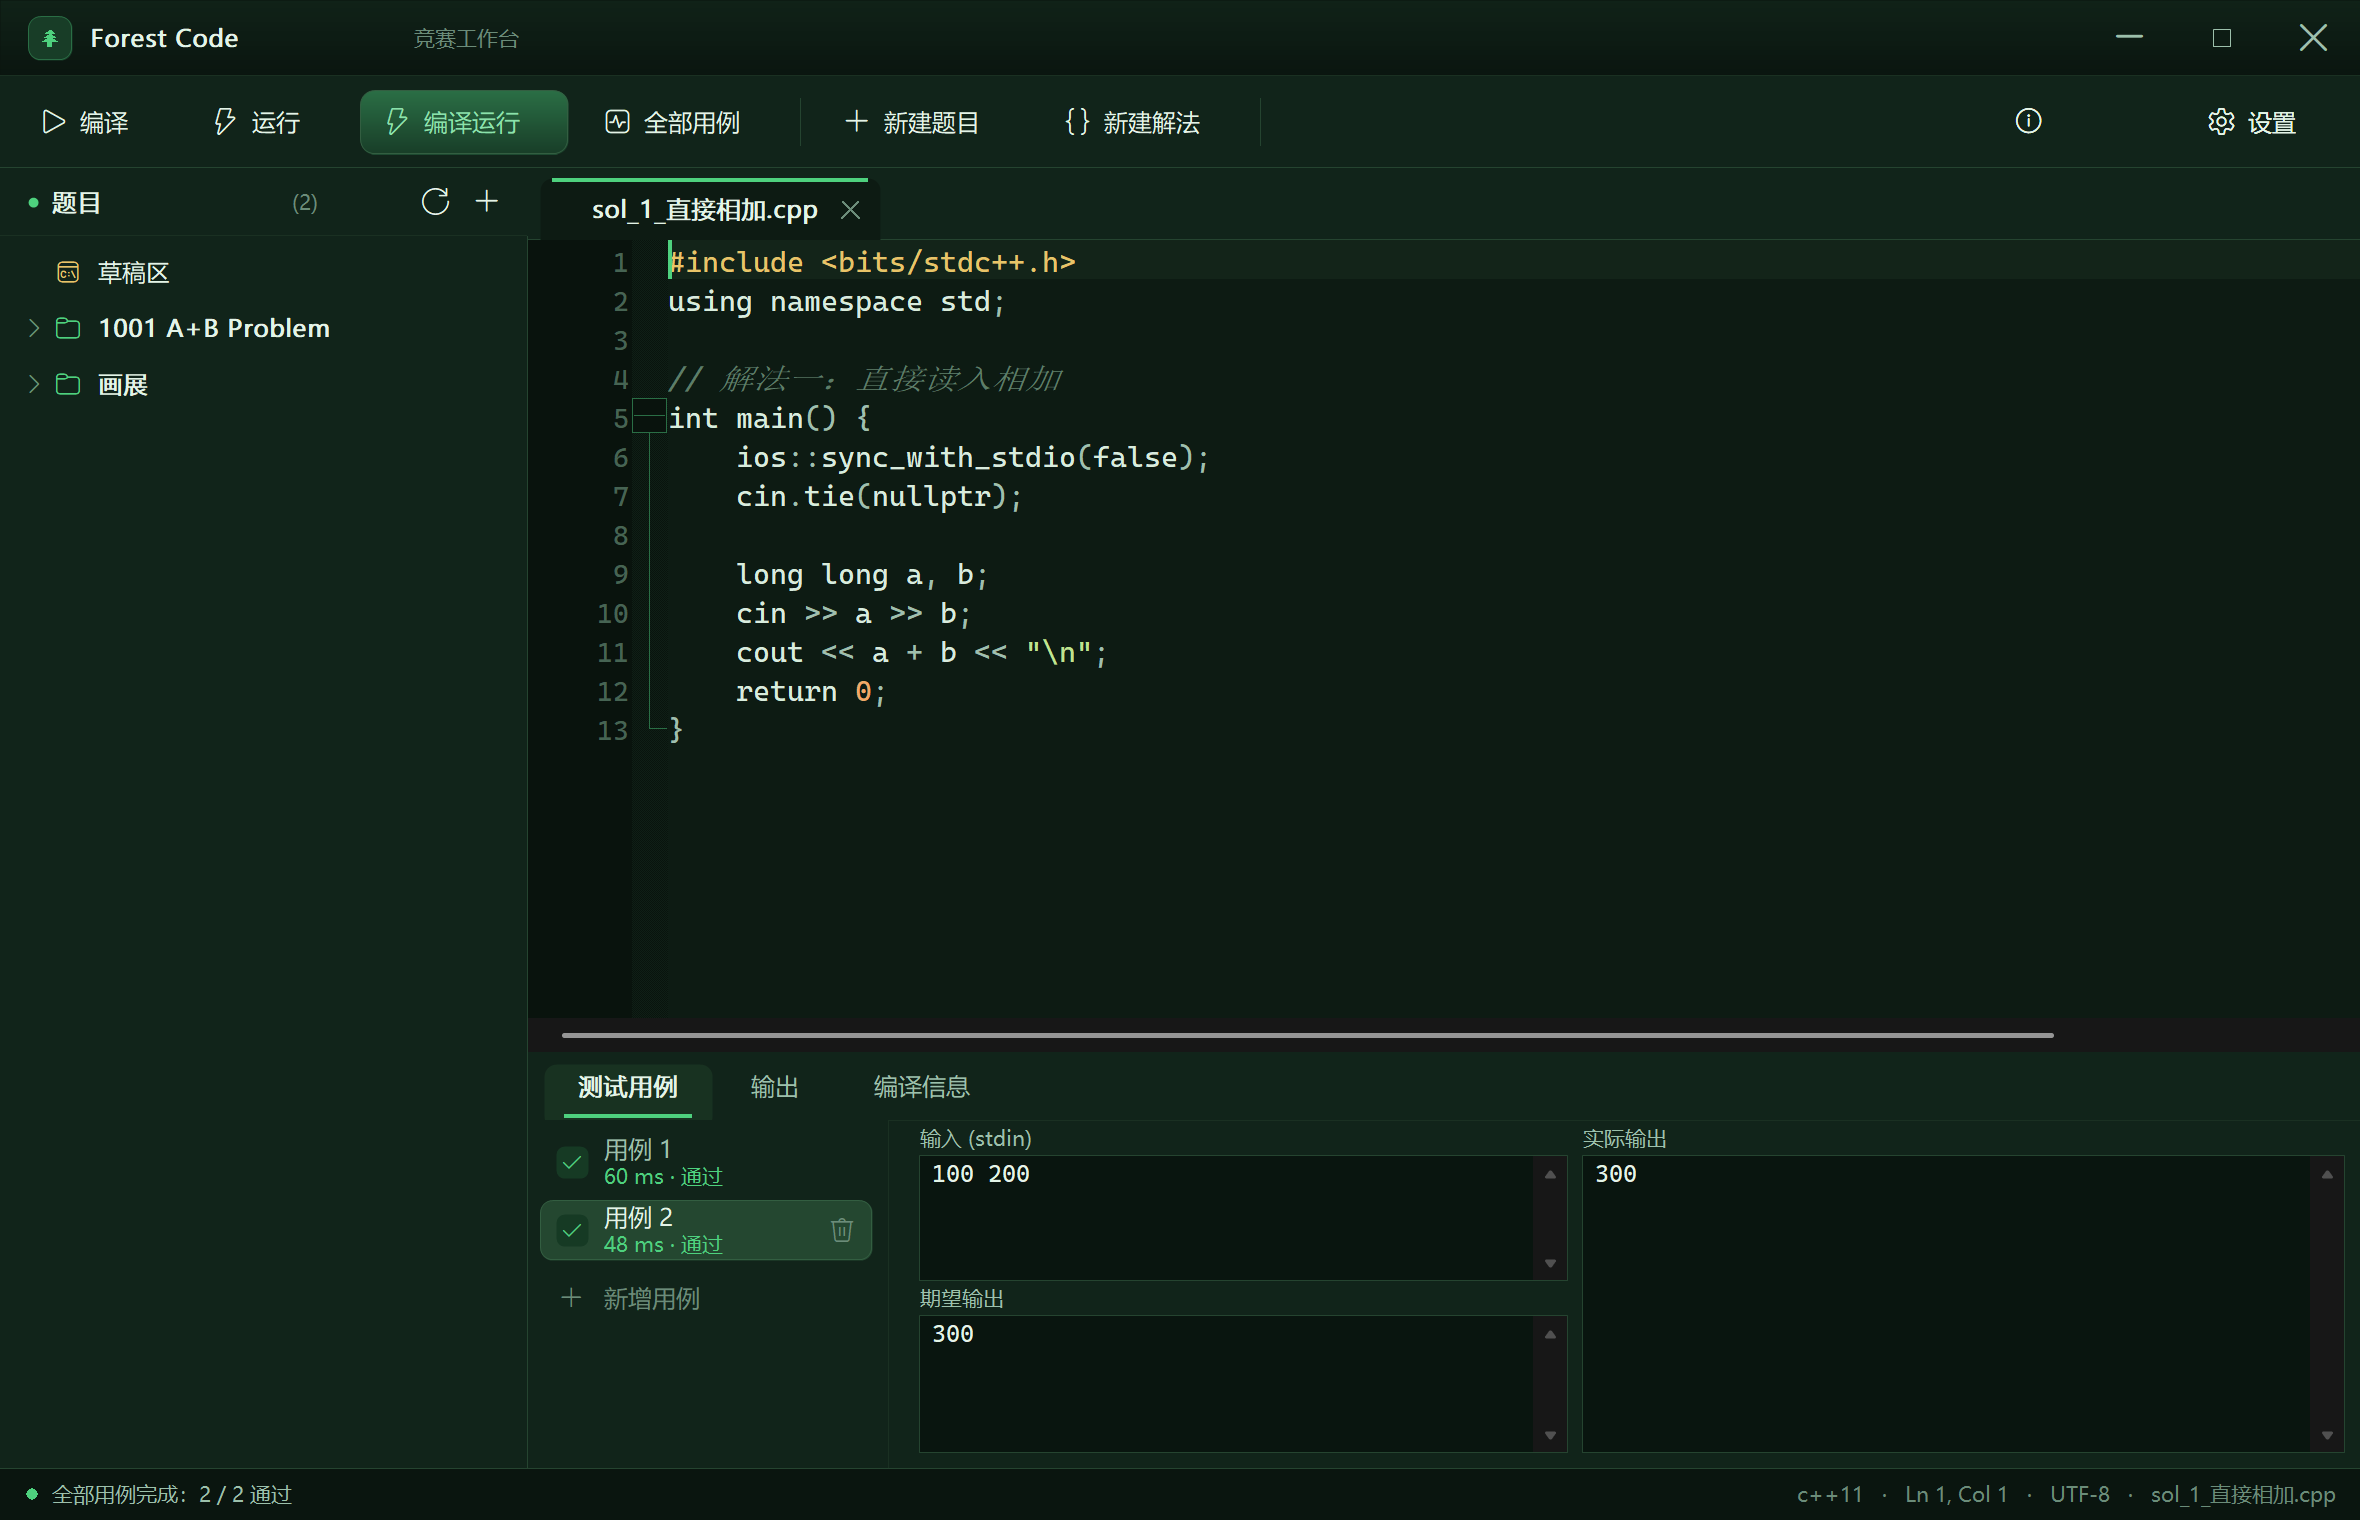
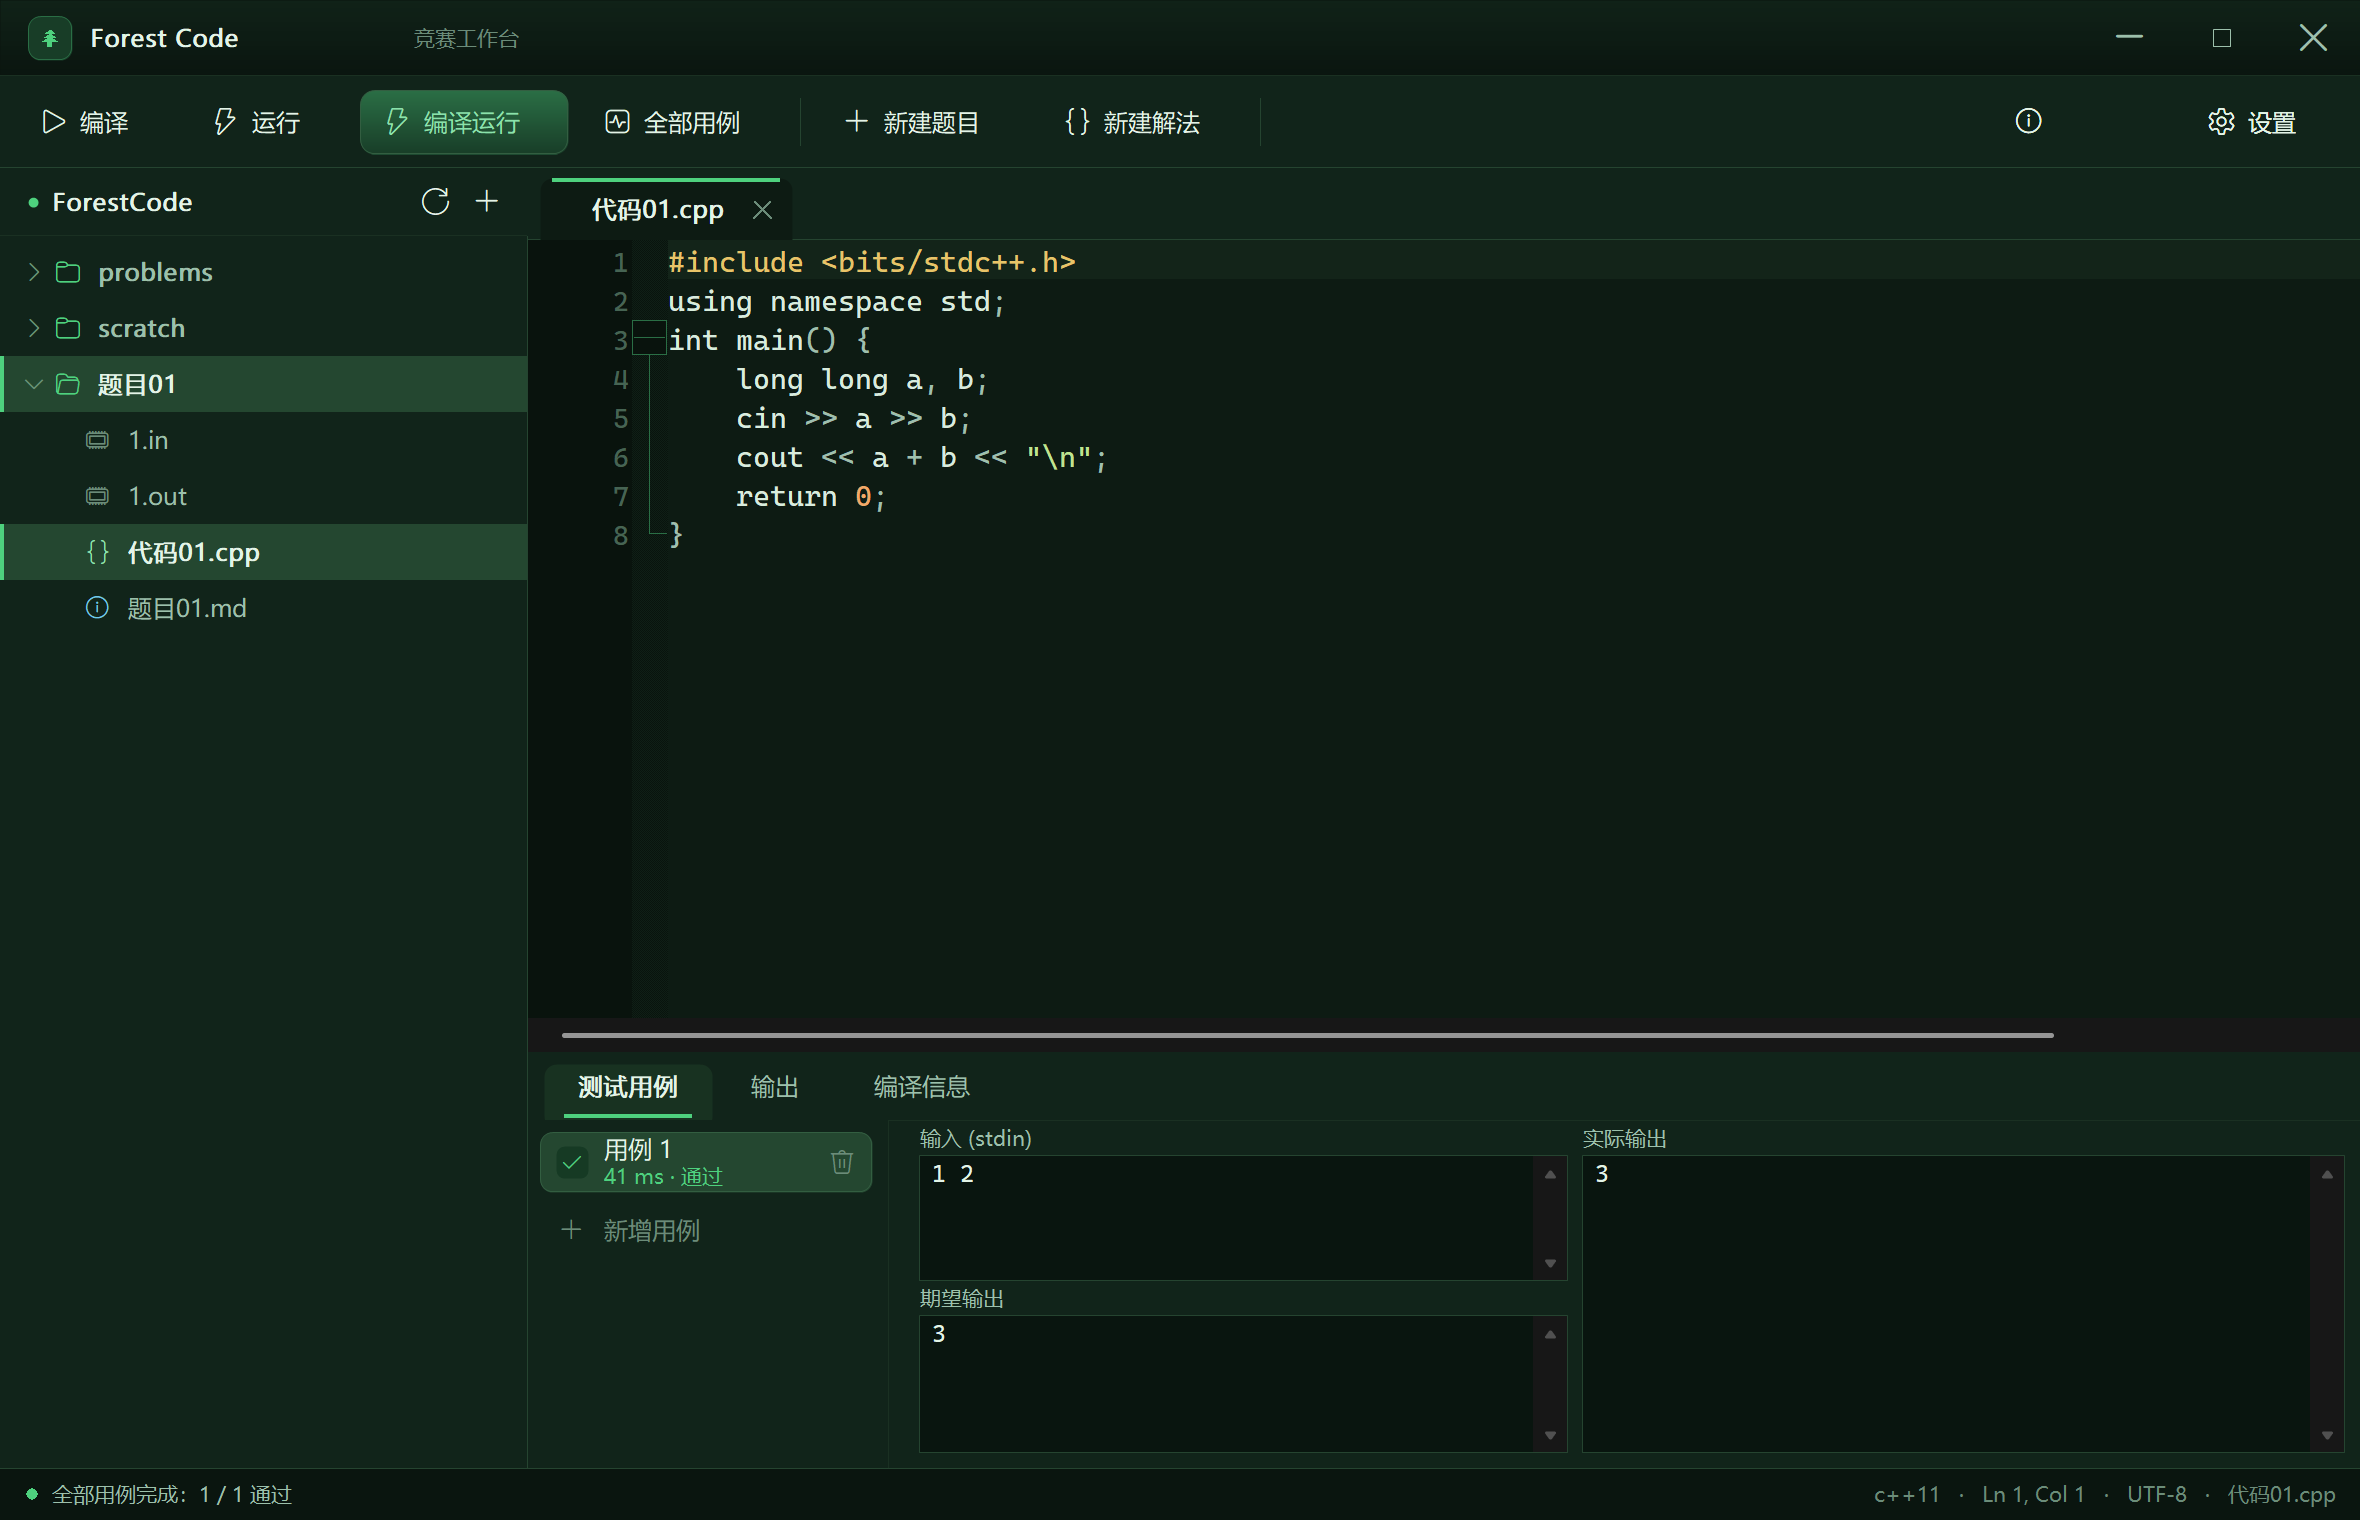
新增: 双击/F2 就地重命名、Delete 删除；README 更新为 Obsidian 式模型；更新预览图

diff --git a/src/commands.cpp b/src/commands.cpp
@@ -783,6 +783,12 @@ void App::OnKeyDown(WPARAM key) {
     case VK_F11: CmdCompileRun(); break;
     case VK_F6:  CmdRunAllTests(); break;
     case VK_F1:  CmdAbout(); break;
+    case VK_F2:
+        if (selFsRow >= 0) BeginInlineRename(selFsRow);
+        break;
+    case VK_DELETE:
+        if (selFsRow >= 0 && selFsRow < (int)fsRows.size()) CmdDeletePath(fsRows[selFsRow].path);
+        break;
     case 'S': if (ctrl && shift) CmdSaveAll(); else if (ctrl) SaveActive(); break;
     case 'N': if (ctrl) CmdNewProblem(); break;
     case 'B': if (ctrl) CmdTogglePanel(); break;

diff --git a/src/app.cpp b/src/app.cpp
@@ -139,7 +139,10 @@ static LRESULT CALLBACK MainProc(HWND hwnd, UINT msg, WPARAM wParam, LPARAM lPar
         POINT p{ GET_X_LPARAM(lParam), GET_Y_LPARAM(lParam) };
         if (p.y < g_theme.TitleH()) {
             ShowWindow(hwnd, IsZoomed(hwnd) ? SW_RESTORE : SW_MAXIMIZE);
+            return 0;
         }
+        int row = app.FsRowAt(p);          // 双击文件名 -> 就地重命名
+        if (row >= 0) { app.selFsRow = row; app.BeginInlineRename(row); }
         return 0;
     }
     case WM_MOUSEWHEEL: {

diff --git a/README.md b/README.md
@@ -27,25 +27,38 @@ Forest Code 只做这件事，并且把它做舒服。
 - **片段库**：输入 `fori`、`dsu`、`dijkstra`、`segtree`、`fastio` 等触发词自动展开成完整代码
 - 拖拽文件到窗口即可打开，支持命令行传文件路径
 
-### 题目管理（一题多解）
-工作区就是普通文件夹，**不需要导入、不锁格式**，你随时能用别的编辑器改：
+### 文件管理：文件系统就是应用（Obsidian 式）
+
+工作区就是一个**普通文件夹**，侧栏显示它的**完整目录树**。不导入、不锁格式、没有私有数据库。
 
 ```
-<工作区>/
-  problems/
-    1001 A+B Problem/
-      meta.ini              # 标题 / 来源 / 难度 / 标签
-      problem.md            # 题面
-      sol_1_直接相加.cpp     # 解法一
-      sol_2_快速读入.cpp     # 解法二（一题多解）
-      tests/
-        1.in  1.out         # 测试用例
-        2.in  2.out
-  scratch/main.cpp          # 随手写草稿的地方
-  .build/                   # 编译产物
+<工作区>/                          ← 你随便建，随便分类
+  题目01/                          ← 点一下 ＋ 自动生成
+    题目01.md                      ← 题面（空文件）
+    代码01.cpp                     ← 代码（空文件，建完立刻打开，直接开写）
+    1.in  1.out                    ← 拖进来就自动配对成测试用例
+    2.in  2.out
+    直接相加.cpp                    ← 再加一个 .cpp 就是一题多解
+  洛谷/P1638 逛画展/               ← 你自己的分类方式也行
+  scratch/                         ← 随手草稿
 ```
 
-侧栏树里直接展开题目 → 看题面 / 切换解法 / 管理用例。
+**约定优于配置**：应用靠"约定"识别，不靠固定结构——
+
+| 约定 | 效果 |
+|---|---|
+| 目录里有 `.cpp` | 就是可编译的代码 |
+| 同目录有多个 `.cpp` | 就是一题多解 |
+| 同目录有 `X.in` + `X.out` | 自动配对成一组测试用例 |
+| 有 `.md` | 就是题面，点开看 |
+
+所以**改任何名字都不影响功能**：`代码01.cpp` 改成 `直接相加.cpp`、`题目01` 改成 `P1638 逛画展`，照样能编译、能对拍。
+
+**＋ 一键新建题目**：点侧栏的 ＋ → 自动建 `题目NN/` + `题目NN.md` + `代码NN.cpp`，并**立刻打开 .cpp、光标就位**，直接开始敲。零弹窗、零确认。
+
+**双向实时同步**：在资源管理器里新建/改名/删除，应用内一秒内自己更新；应用内操作，磁盘立刻变。没有"刷新"这个动作。
+
+**其他**：双击文件名就地改名（`F2` 同效）· 右键新建文件/文件夹/删除/在资源管理器打开 · 从资源管理器**拖文件到文件夹行上就复制进去** · 自然排序（`题目2` 排在 `题目10` 前）
 
 ### 测试用例与对拍
 - 多组用例集中管理，输入 / 期望输出 / 实际输出三栏对照
@@ -70,7 +83,8 @@ Forest Code 只做这件事，并且把它做舒服。
 | `F6` | 运行全部测试用例 |
 | `Ctrl+S` / `Ctrl+Shift+S` | 保存 / 全部保存 |
 | `Ctrl+Space` | 手动唤出补全 |
-| `Ctrl+N` | 新建题目 |
+| `Ctrl+N` / 侧栏 ＋ | 一键新建题目（题面 + 代码，直接开写） |
+| `F2` | 重命名选中的文件/文件夹 |
 | `Ctrl+Shift+T` | 新增测试用例 |
 | `Ctrl+B` | 收起 / 展开底部面板 |
 | `Ctrl+ +/-` | 编辑器字号缩放 |
